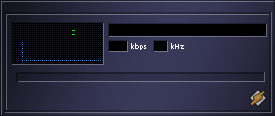
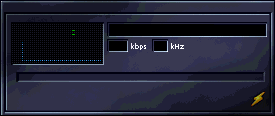
Pixel-perfect visual alignment against authentic Wine Winamp 2.x

diff --git a/src/view-playlist/classicplaylistwindow.cpp b/src/view-playlist/classicplaylistwindow.cpp
@@ -335,17 +335,19 @@ void ClassicPlaylistWindow::paintEvent(QPaintEvent *event)
         }
     }
 
-    const QString currentTime = formatDuration(m_position);
-    const QString totalTime = formatDuration(m_playlist->totalDuration());
-    const QString comboTime = currentTime + QLatin1Char('/') + totalTime;
+    if (m_playlist->mediaCount() > 0 && m_playlist->totalDuration() > 0) {
+        const QString currentTime = formatDuration(m_position);
+        const QString totalTime = formatDuration(m_playlist->totalDuration());
+        const QString comboTime = currentTime + QLatin1Char('/') + totalTime;
 
-    // Top LCD box (track time / total time): right-aligned inside LCD box
-    const int topLcdX = (width() - 150 + 94) - comboTime.length() * 5;
-    renderBitmapTextPl(painter, comboTime, topLcdX, height() - 28, false);
+        // Top LCD box (track time / total time): right-aligned inside LCD box
+        const int topLcdX = (width() - 150 + 94) - comboTime.length() * 5;
+        renderBitmapTextPl(painter, comboTime, topLcdX, height() - 28, false);
 
-    // Bottom LCD box (current track time): right-aligned inside LCD box
-    const int botLcdX = (width() - 150 + 94) - currentTime.length() * 5;
-    renderBitmapTextPl(painter, currentTime, botLcdX, height() - 16, false);
+        // Bottom LCD box (current track time): right-aligned inside LCD box
+        const int botLcdX = (width() - 150 + 94) - currentTime.length() * 5;
+        renderBitmapTextPl(painter, currentTime, botLcdX, height() - 16, false);
+    }
 }
 
 void ClassicPlaylistWindow::mousePressEvent(QMouseEvent *event)

diff --git a/src/view-player/playerview.cpp b/src/view-player/playerview.cpp
@@ -123,7 +123,11 @@ PlayerView::PlayerView(QWidget *parent, ControlButtonsWidget *ctlBtns) :
     connect(ui->balanceSlider, &QSlider::valueChanged, this, &PlayerView::handleBalanceChanged);
 
     // Reset time counter and labels
-    ui->progressTimeLabel->setText("00:00");
+    ui->progressTimeLabel->setText("");
+    ui->volumeSlider->setValue(84);
+    ui->balanceSlider->setValue(0);
+    ui->playlistButton->setChecked(true);
+    ui->eqButton->setChecked(false);
     ui->kbpsValueLabel->setText("");
     ui->khzValueLabel->setText("");
     ui->monoLabel->setText("");
@@ -262,7 +266,7 @@ void PlayerView::setPlaybackState(MediaPlayer::PlaybackState state)
     case MediaPlayer::StoppedState:
         if(spectrum) spectrum->stop();
         imageSrc = ":/assets/status_stopped.png";
-        ui->progressTimeLabel->setText("00:00");
+        ui->progressTimeLabel->setText("");
         ui->kbpsValueLabel->setText("");
         ui->khzValueLabel->setText("");
         ui->monoLabel->setText("");
@@ -427,7 +431,7 @@ void PlayerView::clearMessage()
 void PlayerView::updateDurationInfo(qint64 currentInfo)
 {
     if (m_playbackState == MediaPlayer::StoppedState) {
-        ui->progressTimeLabel->setText("00:00");
+        ui->progressTimeLabel->setText("");
         return;
     }
     const qint64 seconds = std::max<qint64>(0, currentInfo);

diff --git a/src/view-basewindow/titlebar.cpp b/src/view-basewindow/titlebar.cpp
@@ -123,6 +123,22 @@ void TitleBar::changeEvent(QEvent *event)
     QWidget::changeEvent(event);
 }
 
+void TitleBar::showEvent(QShowEvent *event)
+{
+    QWidget::showEvent(event);
+    if (window()) {
+        window()->installEventFilter(this);
+    }
+}
+
+bool TitleBar::eventFilter(QObject *watched, QEvent *event)
+{
+    if (watched == window() && (event->type() == QEvent::ActivationChange || event->type() == QEvent::WindowActivate || event->type() == QEvent::WindowDeactivate)) {
+        update();
+    }
+    return QWidget::eventFilter(watched, event);
+}
+
 void TitleBar::paintEvent(QPaintEvent *event)
 {
     if (!m_classicEqualizerStyle) {

diff --git a/src/view-basewindow/mainwindow.cpp b/src/view-basewindow/mainwindow.cpp
@@ -410,6 +410,16 @@ void MainWindow::moveEvent(QMoveEvent *event)
     moveAttachedWindows(this, delta);
 }
 
+void MainWindow::changeEvent(QEvent *event)
+{
+    if (event->type() == QEvent::ActivationChange) {
+        if (auto *mainTitleBar = findChild<TitleBar *>(QStringLiteral("titlebarContainer"))) {
+            mainTitleBar->update();
+        }
+    }
+    QMainWindow::changeEvent(event);
+}
+
 bool MainWindow::eventFilter(QObject *watched, QEvent *event)
 {
     QWidget *window = qobject_cast<QWidget *>(watched);

diff --git a/src/view-player/controlbuttonswidget.cpp b/src/view-player/controlbuttonswidget.cpp
@@ -19,6 +19,8 @@ ControlButtonsWidget::ControlButtonsWidget(QWidget *parent) :
     connect(ui->openButton, &QPushButton::clicked, this, &ControlButtonsWidget::openClicked);
     connect(ui->repeatButton, &QCheckBox::clicked, this, &ControlButtonsWidget::repeatClicked);
     connect(ui->shuffleButton, &QCheckBox::clicked, this, &ControlButtonsWidget::shuffleClicked);
+    ui->repeatButton->setChecked(false);
+    ui->shuffleButton->setChecked(false);
 }
 
 ControlButtonsWidget::~ControlButtonsWidget()

diff --git a/src/view-basewindow/titlebar.h b/src/view-basewindow/titlebar.h
@@ -29,6 +29,8 @@ signals:
 protected:
     void paintEvent(QPaintEvent *event) override;
     void changeEvent(QEvent *event) override;
+    void showEvent(QShowEvent *event) override;
+    bool eventFilter(QObject *watched, QEvent *event) override;
     void mousePressEvent(QMouseEvent *event) override;
     void mouseMoveEvent(QMouseEvent *event) override;
     void mouseReleaseEvent(QMouseEvent *event) override;

diff --git a/src/view-basewindow/mainwindow.h b/src/view-basewindow/mainwindow.h
@@ -59,6 +59,7 @@ protected:
     void moveEvent(QMoveEvent *event) override;
     void showEvent(QShowEvent *event) override;
     void closeEvent(QCloseEvent *event) override;
+    void changeEvent(QEvent *event) override;
     bool eventFilter(QObject *watched, QEvent *event) override;
 
 private:
